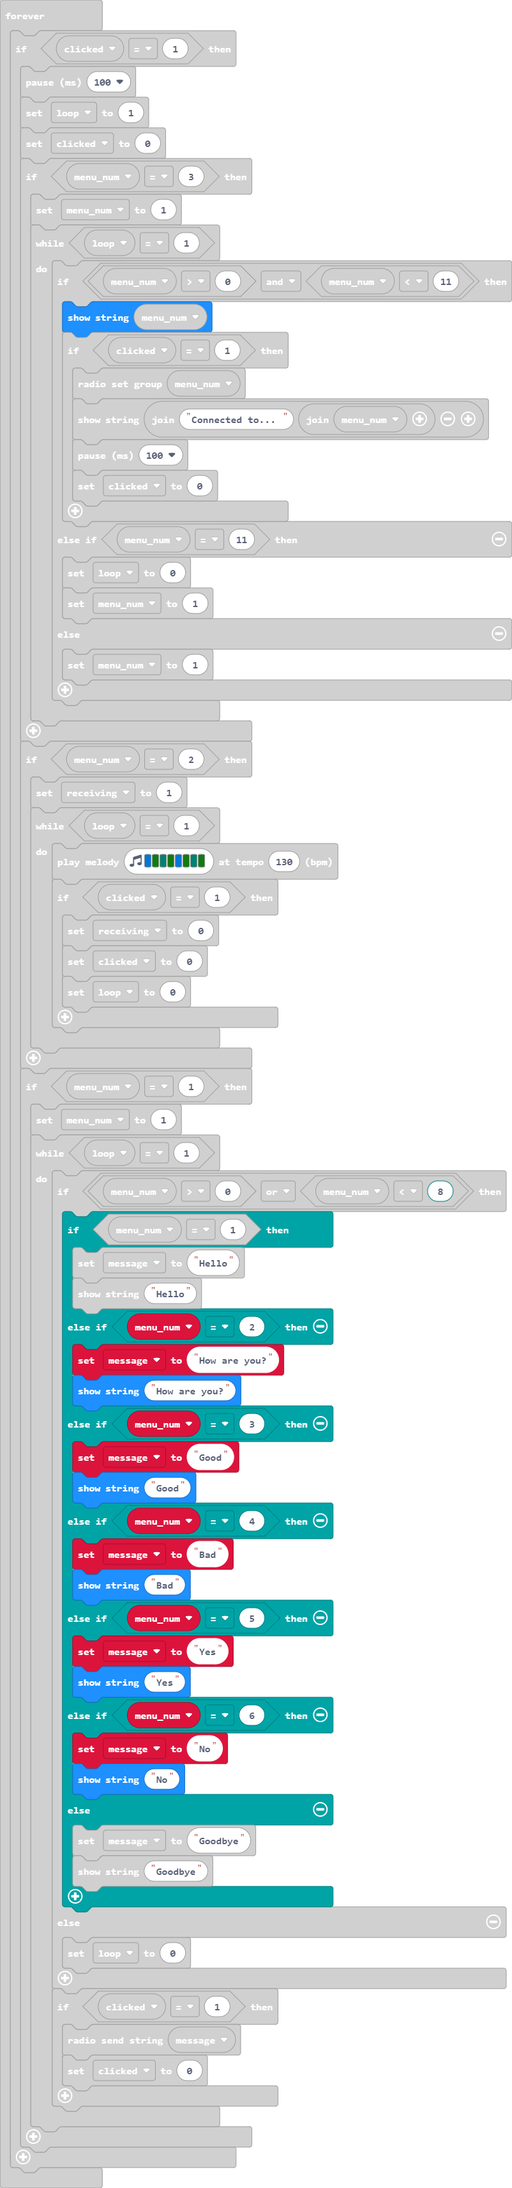
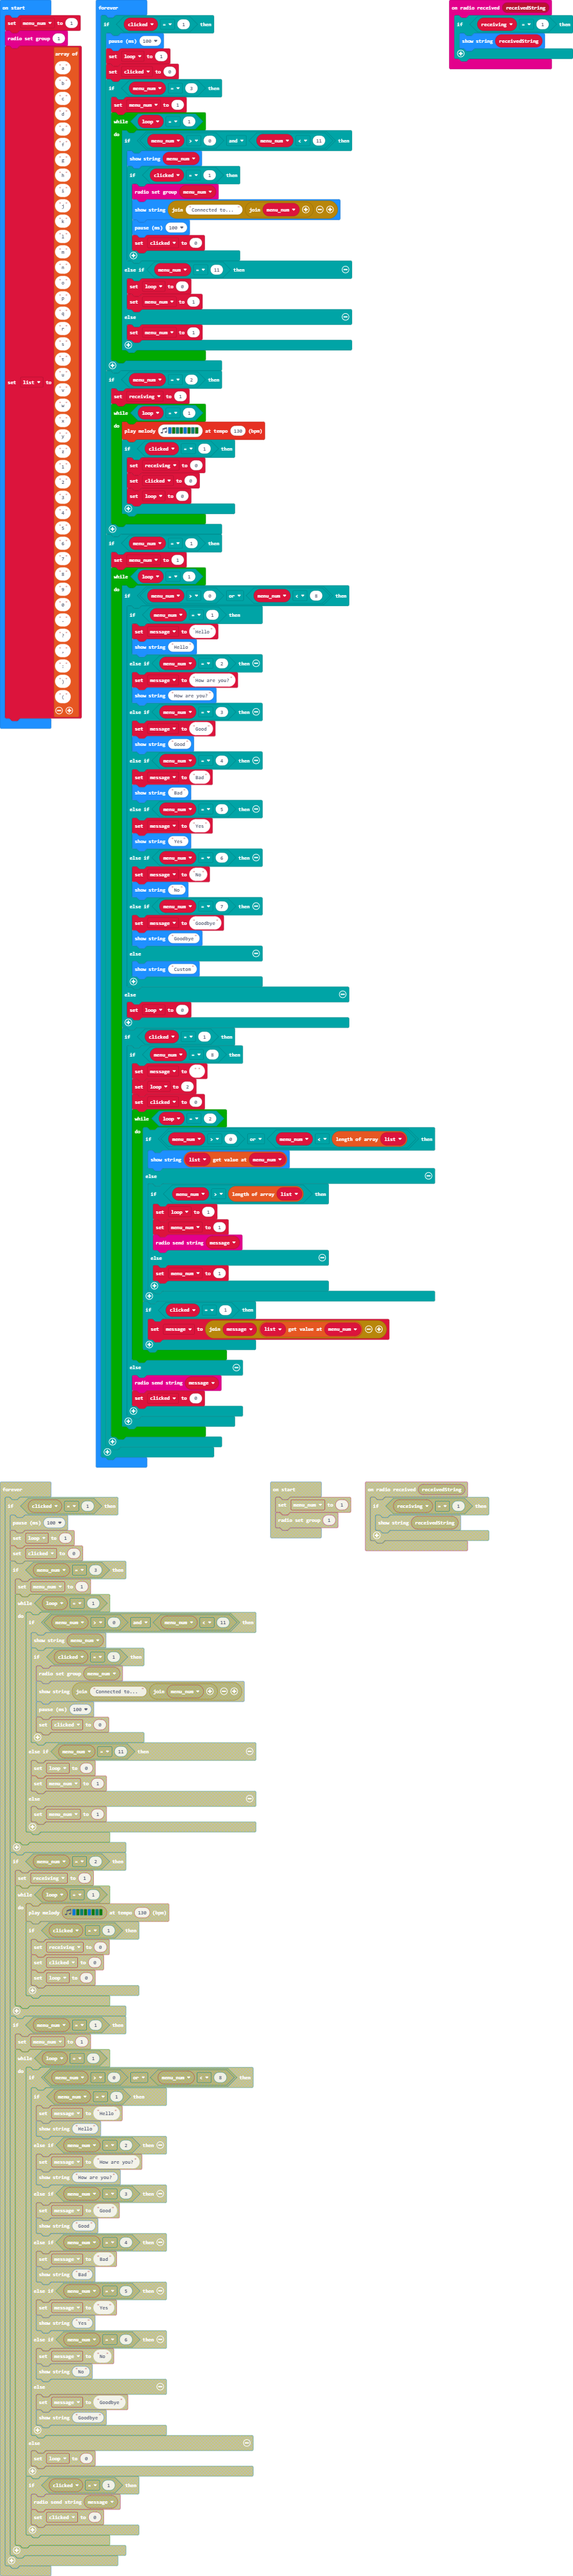
Update main.blocks, main.ts

diff --git a/main.ts b/main.ts
@@ -18,6 +18,50 @@ let receiving = 0
 let clicked = 0
 let menu_num = 1
 radio.setGroup(1)
+let list = [
+"a",
+"b",
+"c",
+"d",
+"e",
+"f",
+"g",
+"h",
+"i",
+"j",
+"k",
+"l",
+"m",
+"n",
+"o",
+"p",
+"q",
+"r",
+"s",
+"t",
+"u",
+"v",
+"w",
+"x",
+"y",
+"z",
+"1",
+"2",
+"3",
+"4",
+"5",
+"6",
+"7",
+"8",
+"9",
+"0",
+".",
+"?",
+",",
+":",
+")",
+"("
+]
 basic.forever(function () {
     if (clicked == 1) {
         basic.pause(100)
@@ -75,16 +119,40 @@ basic.forever(function () {
                     } else if (menu_num == 6) {
                         message = "No"
                         basic.showString("No")
-                    } else {
+                    } else if (menu_num == 7) {
                         message = "Goodbye"
                         basic.showString("Goodbye")
+                    } else {
+                        basic.showString("Custom")
                     }
                 } else {
                     loop = 0
                 }
                 if (clicked == 1) {
-                    radio.sendString(message)
-                    clicked = 0
+                    if (menu_num == 8) {
+                        message = ""
+                        loop = 2
+                        clicked = 0
+                        while (loop == 2) {
+                            if (menu_num > 0 || menu_num < list.length) {
+                                basic.showString("" + (list[menu_num]))
+                            } else {
+                                if (menu_num > list.length) {
+                                    loop = 1
+                                    menu_num = 1
+                                    radio.sendString(message)
+                                } else {
+                                    menu_num = 1
+                                }
+                            }
+                            if (clicked == 1) {
+                                message = "" + message + list[menu_num]
+                            }
+                        }
+                    } else {
+                        radio.sendString(message)
+                        clicked = 0
+                    }
                 }
             }
         }
